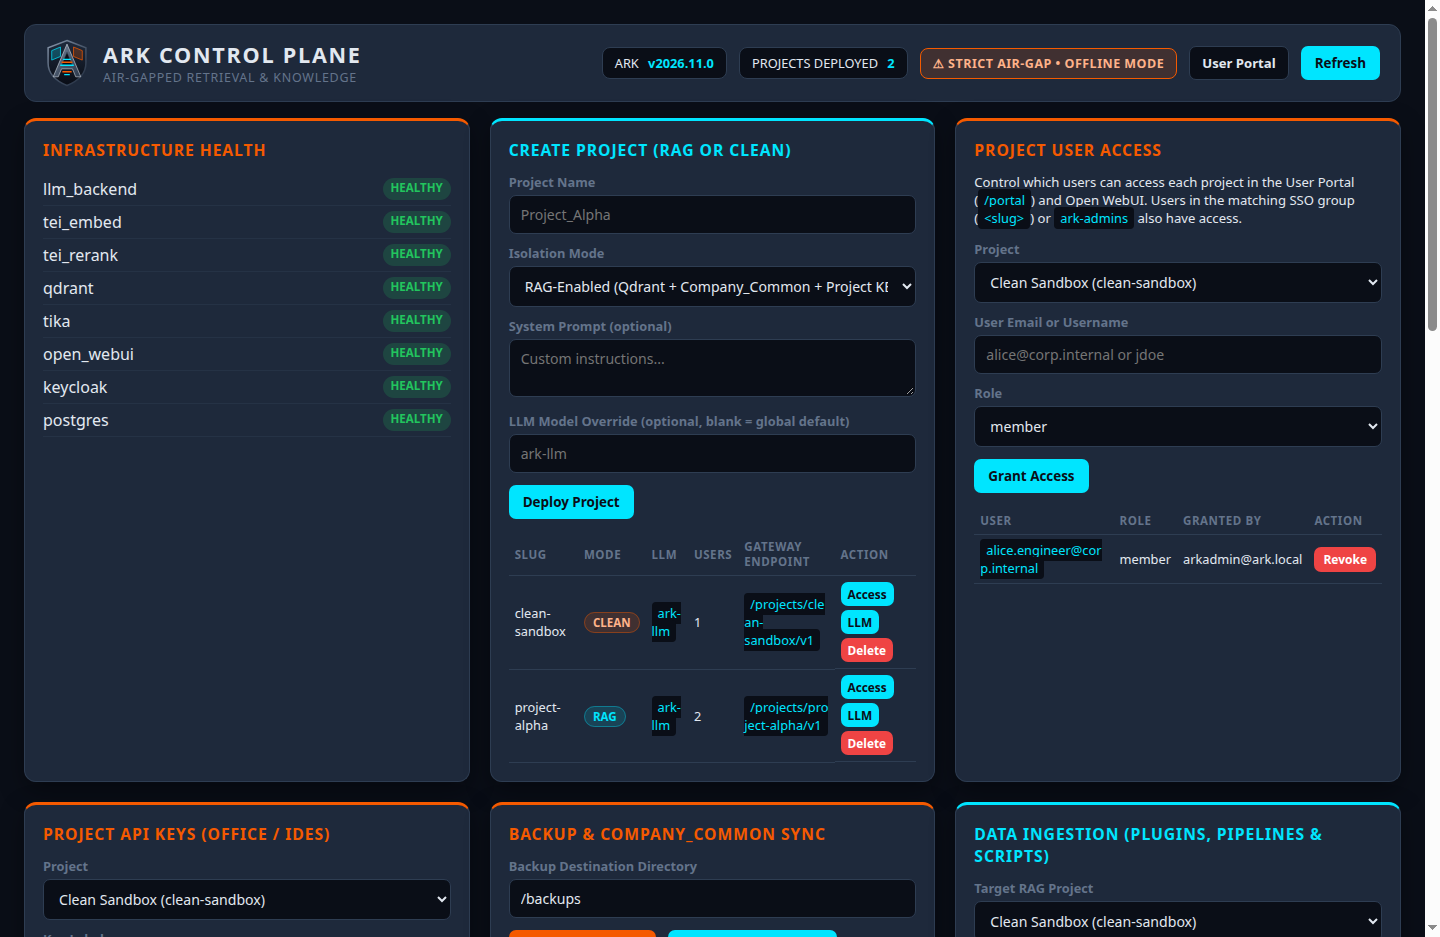
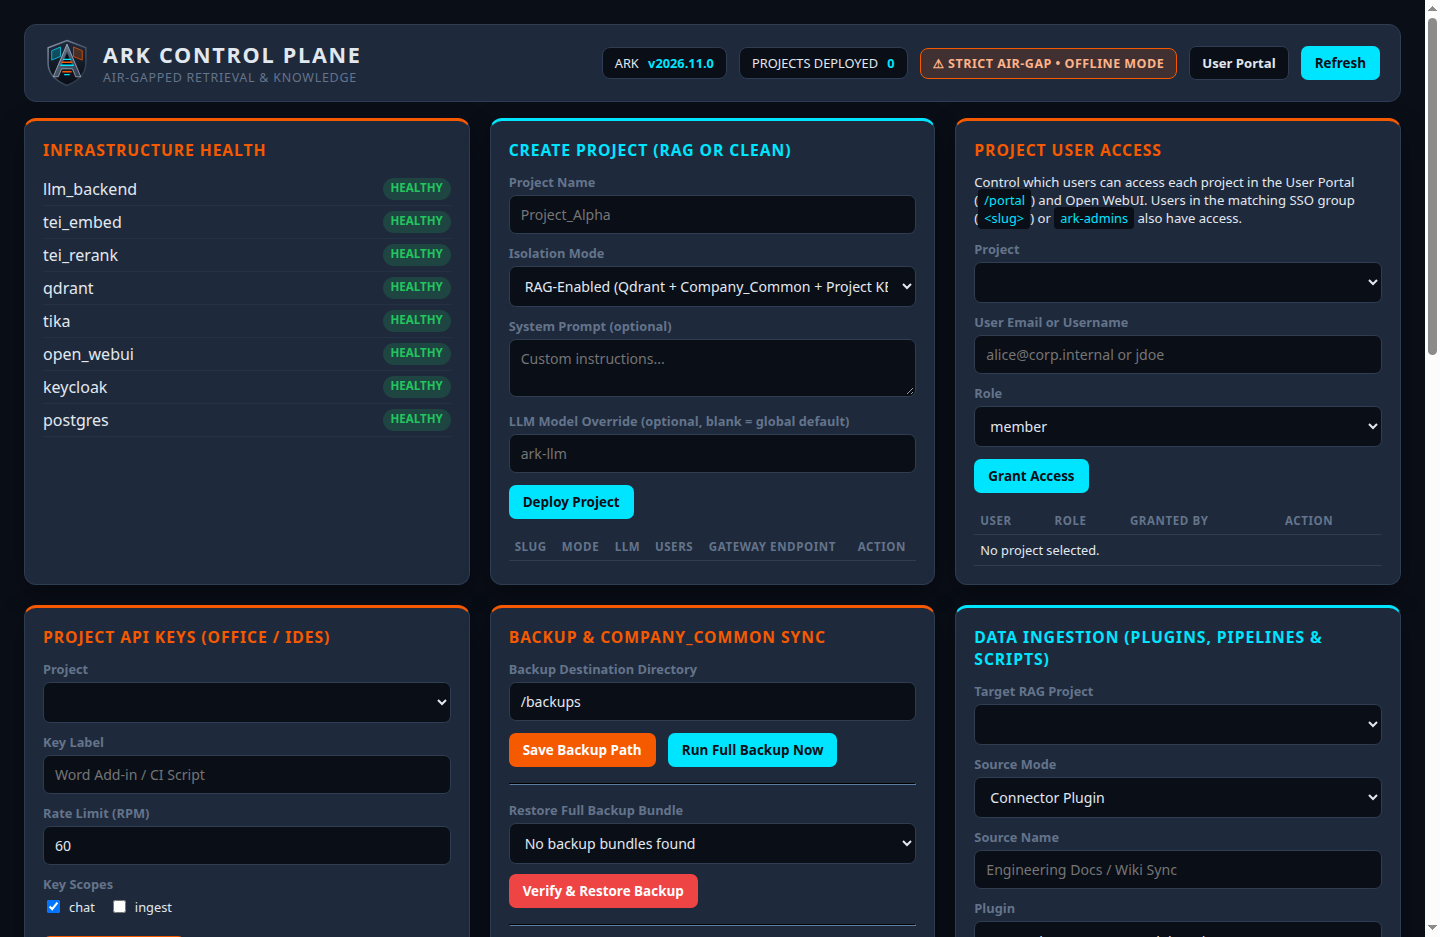
style: update open-webui custom css and documentation screenshots

diff --git a/config/open-webui/custom.css b/config/open-webui/custom.css
@@ -13,6 +13,7 @@
 :root,
 html.dark,
 html.light {
+  color-scheme: dark;
   --ark-void: #0A0E17;
   --ark-shield: #1E293B;
   --ark-shield-alt: #141C2B;
@@ -20,6 +21,7 @@ html.light {
   --ark-amber: #F55A00;
   --ark-cyan: #00E5FF;
   --ark-text: #E2E8F0;
+  --ark-muted: #94A3B8;
   --ark-gray: #64748B;
 
   --color-gray-50: #F1F5F9;
@@ -40,48 +42,175 @@ html,
 body {
   background-color: var(--ark-void) !important;
   color: var(--ark-text) !important;
+  font-family: "Inter", "Segoe UI", system-ui, -apple-system, sans-serif;
 }
 
-/* Ensure light-mode classes also render in ARK Deep Void / Steel Shield */
+/* Override light-mode surfaces & translucent white gradients */
 .bg-white,
 .bg-gray-50,
 .bg-gray-100,
 .dark\:bg-gray-900,
-.dark\:bg-gray-950 {
+.dark\:bg-gray-950,
+[class*="bg-white/"],
+[class*="bg-gray-50/"],
+[class*="bg-gray-900/"] {
   background-color: var(--ark-void) !important;
 }
 
+/* Eliminate Open WebUI's white blurred navbar gradient overlay in light mode */
+nav > div.bg-gradient-to-b,
+nav > div[class*="from-white"],
+[class*="from-white"] {
+  background: linear-gradient(to bottom, rgba(10, 14, 23, 0.96) 0%, rgba(10, 14, 23, 0.85) 60%, transparent 100%) !important;
+  --tw-gradient-from: var(--ark-void) !important;
+  --tw-gradient-via: rgba(10, 14, 23, 0.88) !important;
+  --tw-gradient-to: transparent !important;
+  filter: none !important;
+}
+
 .bg-gray-200,
-.dark\:bg-gray-800 {
+.bg-gray-800,
+.dark\:bg-gray-800,
+.dark\:bg-gray-850,
+.bg-gray-850 {
   background-color: var(--ark-shield) !important;
 }
 
-.text-gray-900,
-.text-gray-800,
-.text-gray-700,
-.text-black {
+/* User message bubbles */
+.user-message .rounded-3xl,
+[id^="message-"] .rounded-3xl {
+  background-color: var(--ark-shield) !important;
+  border: 1px solid var(--ark-border) !important;
   color: var(--ark-text) !important;
 }
 
+/* Borders */
+.border-gray-50,
+.border-gray-100,
+.border-gray-200,
+.border-gray-300,
+.dark\:border-gray-700,
+.dark\:border-gray-800,
+.dark\:border-gray-850 {
+  border-color: var(--ark-border) !important;
+}
+
+/* Typography contrast */
+.text-black,
+.text-gray-900,
+.text-gray-800,
+.text-gray-700,
+.dark\:text-white,
+.dark\:text-gray-100,
+.dark\:text-gray-200 {
+  color: var(--ark-text) !important;
+}
+
+.text-gray-600,
+.text-gray-500,
+.dark\:text-gray-400,
+.dark\:text-gray-300 {
+  color: var(--ark-muted) !important;
+}
+
+/* Markdown / Prose content inside chat messages (fixes light-mode dark gray text) */
+.prose,
+.markdown-prose,
+#response-content-container {
+  --tw-prose-body: var(--ark-text) !important;
+  --tw-prose-headings: #FFFFFF !important;
+  --tw-prose-lead: var(--ark-muted) !important;
+  --tw-prose-links: var(--ark-cyan) !important;
+  --tw-prose-bold: #FFFFFF !important;
+  --tw-prose-counters: var(--ark-muted) !important;
+  --tw-prose-bullets: var(--ark-cyan) !important;
+  --tw-prose-hr: var(--ark-border) !important;
+  --tw-prose-quotes: var(--ark-text) !important;
+  --tw-prose-quote-borders: var(--ark-amber) !important;
+  --tw-prose-code: var(--ark-cyan) !important;
+  --tw-prose-pre-code: var(--ark-text) !important;
+  --tw-prose-pre-bg: var(--ark-shield-alt) !important;
+  --tw-prose-th-borders: var(--ark-border) !important;
+  --tw-prose-td-borders: var(--ark-border) !important;
+  color: var(--ark-text) !important;
+}
+
+.prose p,
+.prose li,
+.prose span,
+.prose strong,
+.prose h1,
+.prose h2,
+.prose h3,
+.prose h4,
+.markdown-prose p,
+.markdown-prose li,
+.markdown-prose span,
+.markdown-prose strong,
+#response-content-container p,
+#response-content-container li,
+#response-content-container span {
+  color: var(--ark-text) !important;
+}
+
+/* Top Navbar */
+nav {
+  background: rgba(10, 14, 23, 0.94) !important;
+  backdrop-filter: blur(8px);
+  border-bottom: 1px solid var(--ark-border) !important;
+}
+
 /* Sidebar & Navigation Panels */
-nav,
 #sidebar,
 aside {
   background-color: var(--ark-shield-alt) !important;
-  border-color: var(--ark-border) !important;
+  border-right: 1px solid var(--ark-border) !important;
+}
+
+#sidebar a:hover,
+#sidebar button:hover,
+nav button:hover {
+  background-color: rgba(30, 41, 59, 0.85) !important;
 }
 
 /* Chat Input & Composer */
 #chat-input-container,
-form textarea,
-.bg-gray-850,
-.dark\:bg-gray-850 {
+#message-input-container,
+form .rounded-3xl {
   background-color: var(--ark-shield) !important;
-  border-color: var(--ark-border) !important;
+  border: 1px solid var(--ark-border) !important;
+  border-radius: 14px !important;
+  box-shadow: 0 8px 24px rgba(0, 0, 0, 0.35);
+  color: var(--ark-text) !important;
+  transition: border-color 0.15s ease;
+}
+
+#chat-input-container:focus-within,
+#message-input-container:focus-within,
+form .rounded-3xl:focus-within {
+  border-color: var(--ark-cyan) !important;
+}
+
+#chat-input-container textarea,
+#chat-input-container [contenteditable="true"],
+#chat-input {
+  background-color: transparent !important;
   color: var(--ark-text) !important;
 }
 
+/* Menus, Popovers, Modals & Model Selector */
+[role="menu"],
+[role="listbox"],
+[role="dialog"],
+.tippy-box {
+  background-color: var(--ark-shield) !important;
+  border: 1px solid var(--ark-border) !important;
+  color: var(--ark-text) !important;
+  box-shadow: 0 12px 32px rgba(0, 0, 0, 0.5) !important;
+}
+
 /* Primary Buttons & Send / SSO CTA */
+#send-message-button,
 button[type="submit"],
 .bg-black,
 .dark\:bg-white {
@@ -91,6 +220,7 @@ button[type="submit"],
   border-color: var(--ark-cyan) !important;
 }
 
+#send-message-button:hover,
 button[type="submit"]:hover {
   opacity: 0.9;
 }
@@ -111,10 +241,21 @@ a:hover {
 pre,
 code {
   background-color: var(--ark-shield-alt) !important;
-  border-color: var(--ark-border) !important;
+  border: 1px solid var(--ark-border) !important;
+  color: var(--ark-text) !important;
+  border-radius: 6px;
 }
 
 /* Scrollbar styling */
+::-webkit-scrollbar {
+  width: 8px;
+  height: 8px;
+}
+
+::-webkit-scrollbar-track {
+  background: var(--ark-void);
+}
+
 ::-webkit-scrollbar-thumb {
   background: var(--ark-border) !important;
   border-radius: 6px;
